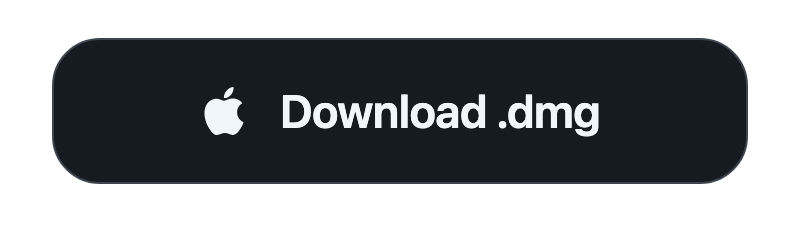
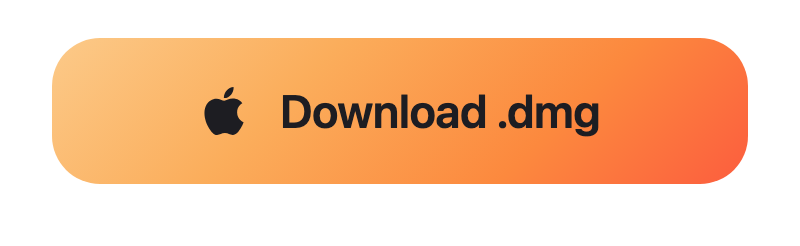
docs: restyle dark readme buttons with brand gradient and fix spacing (#107)
- Update download-dmg-dark button to use logo's orange gradient
- Update install-homebrew-dark button to transparent outline style
- Collapse picture elements onto single lines to remove stray spacing

diff --git a/README.tr.md b/README.tr.md
@@ -10,25 +10,10 @@
   </p>
 
   <p>
-    <a href="https://github.com/YSamed/yalqen/releases/latest">
-      <picture>
-        <source media="(prefers-color-scheme: dark)" srcset="design/readme/download-dmg-dark.png">
-        <img src="design/readme/download-dmg.png" alt="DMG dosyasını indir" width="250">
-      </picture>
-    </a>
-    <a href="#kurulum">
-      <picture>
-        <source media="(prefers-color-scheme: dark)" srcset="design/readme/install-homebrew-dark.png">
-        <img src="design/readme/install-homebrew.png" alt="Homebrew ile kur" width="250">
-      </picture>
-    </a>
+    <a href="https://github.com/YSamed/yalqen/releases/latest"><picture><source media="(prefers-color-scheme: dark)" srcset="design/readme/download-dmg-dark.png"><img src="design/readme/download-dmg.png" alt="DMG dosyasını indir" width="250"></picture></a>
+    <a href="#kurulum"><picture><source media="(prefers-color-scheme: dark)" srcset="design/readme/install-homebrew-dark.png"><img src="design/readme/install-homebrew.png" alt="Homebrew ile kur" width="250"></picture></a>
     <br>
-    <a href="https://github.com/YSamed/yalqen/releases/latest">
-      <picture>
-        <source media="(prefers-color-scheme: dark)" srcset="https://raw.githubusercontent.com/YSamed/yalqen/badges/release-dark.svg">
-        <img src="https://raw.githubusercontent.com/YSamed/yalqen/badges/release-light.svg" alt="Son sürüm ve toplam indirme sayısı" height="56">
-      </picture>
-    </a>
+    <a href="https://github.com/YSamed/yalqen/releases/latest"><picture><source media="(prefers-color-scheme: dark)" srcset="https://raw.githubusercontent.com/YSamed/yalqen/badges/release-dark.svg"><img src="https://raw.githubusercontent.com/YSamed/yalqen/badges/release-light.svg" alt="Son sürüm ve toplam indirme sayısı" height="56"></picture></a>
   </p>
 
   <p>

diff --git a/README.md b/README.md
@@ -10,25 +10,10 @@
   </p>
 
   <p>
-    <a href="https://github.com/YSamed/yalqen/releases/latest">
-      <picture>
-        <source media="(prefers-color-scheme: dark)" srcset="design/readme/download-dmg-dark.png">
-        <img src="design/readme/download-dmg.png" alt="Download the DMG" width="250">
-      </picture>
-    </a>
-    <a href="#install">
-      <picture>
-        <source media="(prefers-color-scheme: dark)" srcset="design/readme/install-homebrew-dark.png">
-        <img src="design/readme/install-homebrew.png" alt="Install with Homebrew" width="250">
-      </picture>
-    </a>
+    <a href="https://github.com/YSamed/yalqen/releases/latest"><picture><source media="(prefers-color-scheme: dark)" srcset="design/readme/download-dmg-dark.png"><img src="design/readme/download-dmg.png" alt="Download the DMG" width="250"></picture></a>
+    <a href="#install"><picture><source media="(prefers-color-scheme: dark)" srcset="design/readme/install-homebrew-dark.png"><img src="design/readme/install-homebrew.png" alt="Install with Homebrew" width="250"></picture></a>
     <br>
-    <a href="https://github.com/YSamed/yalqen/releases/latest">
-      <picture>
-        <source media="(prefers-color-scheme: dark)" srcset="https://raw.githubusercontent.com/YSamed/yalqen/badges/release-dark.svg">
-        <img src="https://raw.githubusercontent.com/YSamed/yalqen/badges/release-light.svg" alt="Latest release and total downloads" height="56">
-      </picture>
-    </a>
+    <a href="https://github.com/YSamed/yalqen/releases/latest"><picture><source media="(prefers-color-scheme: dark)" srcset="https://raw.githubusercontent.com/YSamed/yalqen/badges/release-dark.svg"><img src="https://raw.githubusercontent.com/YSamed/yalqen/badges/release-light.svg" alt="Latest release and total downloads" height="56"></picture></a>
   </p>
 
   <p>

diff --git a/README.zh-CN.md b/README.zh-CN.md
@@ -10,25 +10,10 @@
   </p>
 
   <p>
-    <a href="https://github.com/YSamed/yalqen/releases/latest">
-      <picture>
-        <source media="(prefers-color-scheme: dark)" srcset="design/readme/download-dmg-dark.png">
-        <img src="design/readme/download-dmg.png" alt="下载 DMG" width="250">
-      </picture>
-    </a>
-    <a href="#安装">
-      <picture>
-        <source media="(prefers-color-scheme: dark)" srcset="design/readme/install-homebrew-dark.png">
-        <img src="design/readme/install-homebrew.png" alt="使用 Homebrew 安装" width="250">
-      </picture>
-    </a>
+    <a href="https://github.com/YSamed/yalqen/releases/latest"><picture><source media="(prefers-color-scheme: dark)" srcset="design/readme/download-dmg-dark.png"><img src="design/readme/download-dmg.png" alt="下载 DMG" width="250"></picture></a>
+    <a href="#安装"><picture><source media="(prefers-color-scheme: dark)" srcset="design/readme/install-homebrew-dark.png"><img src="design/readme/install-homebrew.png" alt="使用 Homebrew 安装" width="250"></picture></a>
     <br>
-    <a href="https://github.com/YSamed/yalqen/releases/latest">
-      <picture>
-        <source media="(prefers-color-scheme: dark)" srcset="https://raw.githubusercontent.com/YSamed/yalqen/badges/release-dark.svg">
-        <img src="https://raw.githubusercontent.com/YSamed/yalqen/badges/release-light.svg" alt="最新版本和总下载量" height="56">
-      </picture>
-    </a>
+    <a href="https://github.com/YSamed/yalqen/releases/latest"><picture><source media="(prefers-color-scheme: dark)" srcset="https://raw.githubusercontent.com/YSamed/yalqen/badges/release-dark.svg"><img src="https://raw.githubusercontent.com/YSamed/yalqen/badges/release-light.svg" alt="最新版本和总下载量" height="56"></picture></a>
   </p>
 
   <p>
